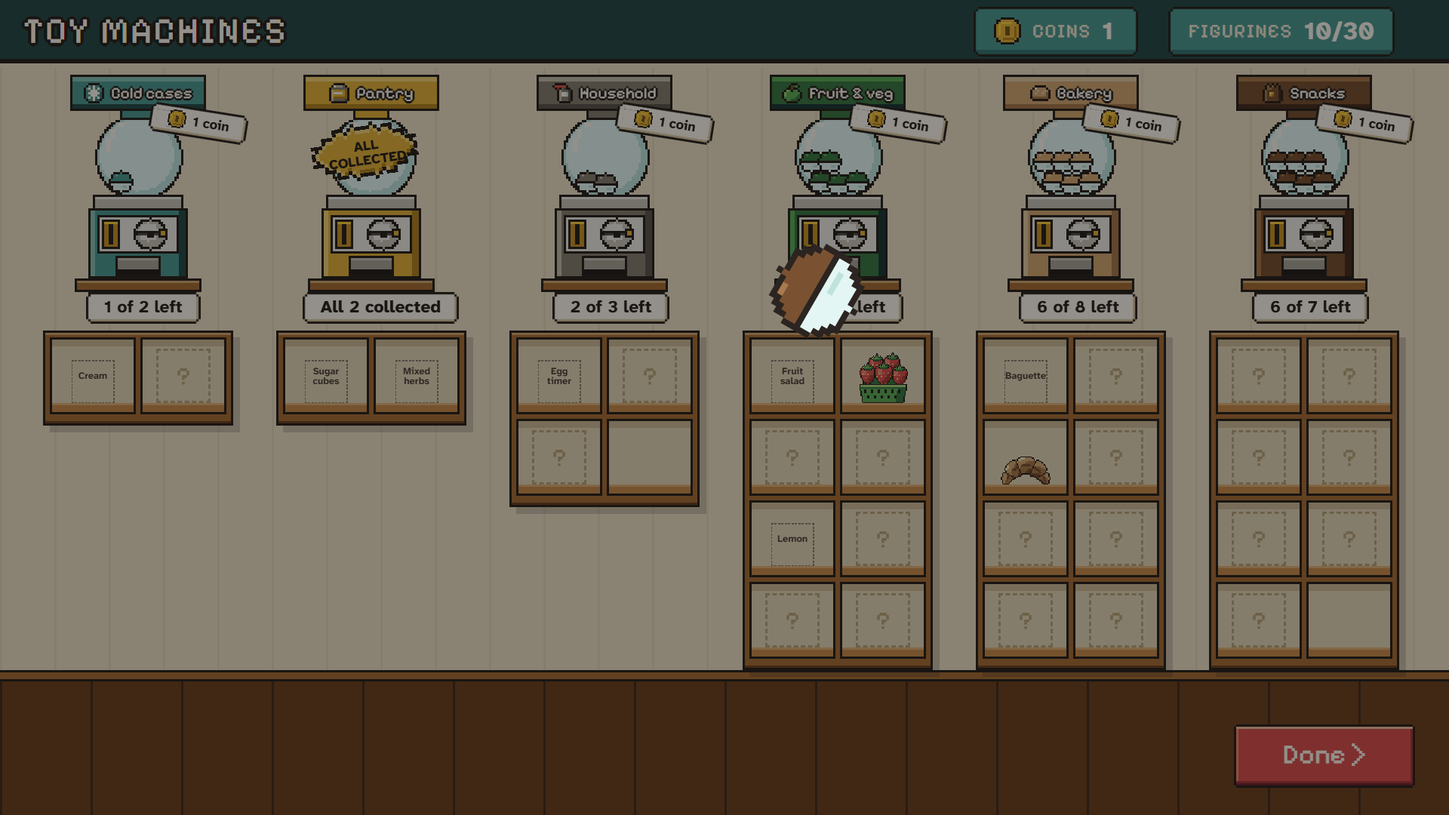
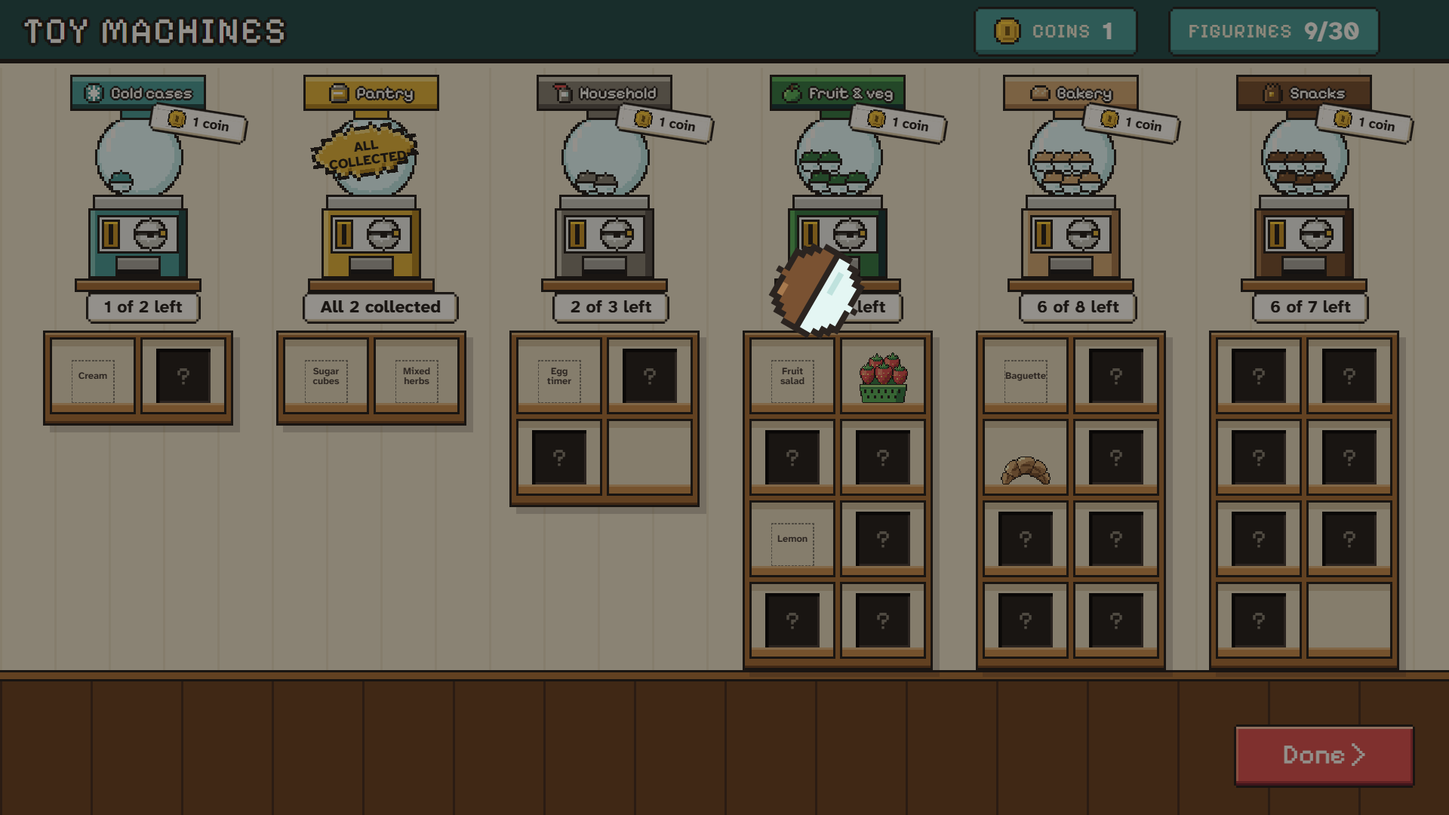
Fix the #63 capsule machine decide prep after review
Split Q1 into staging and machine body, offer a real choice for a
title draw while a run is saved, recommend surprise_list until #65,
make the seed come from outside core/ (saved as a decimal string),
state the telemetry run_id, the pixel_art.py derive cost and why only
coins show "?". True 0-coins copy, one can't-save string, dark locked
slots, FIGURINES counts at the pop, B's dial still at t=0.6, stills
retaken.

diff --git a/docs/art/mockups/capsule_63_index.html b/docs/art/mockups/capsule_63_index.html
@@ -11,7 +11,7 @@
 * { box-sizing: border-box; margin: 0; padding: 0; }
 body { width: 1280px; min-height: 720px; background: var(--teal-black); color: var(--cream); font: 500 13px/1.35 Atkinson; }
 a { color: var(--gold); }
-.wrap { padding: 14px 18px; display: grid; grid-template-columns: 430px 1fr; gap: 18px; }
+.wrap { padding: 12px 18px; display: grid; grid-template-columns: 450px 1fr; gap: 18px; }
 h1 { font: 400 30px Pixelify; color: var(--paper); letter-spacing: 1px; }
 h1 small { font: 600 13px Atkinson; color: var(--muted); letter-spacing: 0; margin-left: 8px; }
 h2 { font: 400 17px Pixelify; color: var(--mustard); margin: 10px 0 4px; letter-spacing: 1px; }
@@ -36,20 +36,20 @@ li { margin: 2px 0; }
 <body>
 <div class="wrap">
   <div>
-    <h1>Toy machines <small>#63 decide prep · 2026-10-21 · nothing decided</small></h1>
-    <p>Six coin-op machines, one per aisle, 1 coin a capsule, key item first, no duplicates. The pages are live: click a machine. Defaults and reasons are in <a href="capsule_63_src/DECIDE_63.md">DECIDE_63.md</a>, the inputs in <a href="capsule_63_src/BRIEF.md">BRIEF.md</a>.</p>
+    <h1>Toy machines <small>#63 prep · nothing decided</small></h1>
+    <p>One machine per aisle, 1 coin a capsule, key item first. Live pages: click a machine. Reasons in <a href="capsule_63_src/DECIDE_63.md">DECIDE_63.md</a>, inputs in <a href="capsule_63_src/BRIEF.md">BRIEF.md</a>.</p>
     <h2>The 4 questions</h2>
-    <div class="q"><b>Q1 Look:</b> A exit vestibule · B machine bank pop-in · C collector wall. <span class="rec">Rec: C</span> (the case under each machine is its shelf and its "left" count; the figurine lands in its cubby). A is the fallback.</div>
-    <div class="q"><b>Q2 Where:</b> results only, or results + title? Keep coins? <span class="rec">Rec: both, coins can be kept</span>; a title draw takes run index run_count − 1, like a results draw.</div>
+    <div class="q"><b>Q1 Look, two parts:</b> staging (A exit cut · B pop-in · C wall + cases) and body (globe, shared by A and C · window, B); bodies swap between stagings. <span class="rec">Rec: C's wall + globe</span>; A's staging is the fallback.</div>
+    <div class="q"><b>Q2 Where:</b> results only, or results + title? Keep coins? <span class="rec">Rec: both, coins kept</span>; a title draw while a run is saved takes run index run_count ("In stock after your saved run").</div>
     <div class="q"><b>Q3 Shelf:</b> locked as spaces or hidden; capsule items or base products too; names; order. <span class="rec">Rec: "?" spaces, the 30 capsule items, names on hover, data order.</span></div>
-    <div class="q"><b>Q4 Wording:</b> "Toy machines" or "Capsule machines"; "3 of 8 left"; "In stock from your next run". <span class="rec">Rec: TOY MACHINES + those lines</span>, never "gacha".</div>
+    <div class="q"><b>Q4 Wording:</b> "Toy" or "Capsule machines"; "3 of 8 left"; "In stock from your next run". <span class="rec">Rec: TOY MACHINES + those lines</span>.</div>
     <h2>Stated defaults</h2>
     <ul>
-      <li>RNG: seed + draw count in ProfileState (FORMAT_VERSION 2), a derived stream per draw.</li>
-      <li>Full collection: ALL COLLECTED rosettes, COLLECTION COMPLETE, coins keep adding up.</li>
-      <li>Can't save: OUT OF ORDER on each machine, "Coins ?", notice; a failed save rolls the draw back.</li>
-      <li>Until #65: start_new_run uses the pre-fill; surprise_list built and tested.</li>
-      <li>Log a <code>capsule</code> event · debug Profile tools (coins, real draw, unlock all, reset).</li>
+      <li>RNG: seed (made outside core/, a decimal string) + draw count in ProfileState v2.</li>
+      <li>Full: ALL COLLECTED, COLLECTION COMPLETE, coins add up.</li>
+      <li>Can't save: OUT OF ORDER, "Coins ?"; a failed save rolls back the draw.</li>
+      <li>Until #65: surprise_list (the pre-fill would lock the first list in).</li>
+      <li><code>capsule</code> event · debug Profile tools.</li>
     </ul>
   </div>
   <div>
@@ -59,7 +59,7 @@ li { margin: 2px 0; }
         <div class="links"><a href="capsule_63_a.html">live</a> · <a href="capsule_63_a_draw_at0.75.png">crank</a> · <a href="capsule_63_a_draw_at1.6.png">hop</a> · <a href="capsule_63_a_draw_at2.15.png">pop</a> · <a href="capsule_63_a_draw_at3.png">reveal</a> · <a href="capsule_63_a_draw_rm.png">reduced</a> · <a href="capsule_63_a_full_1920x1080.png">full</a> · <a href="capsule_63_a_nosave_1920x1080.png">can't save</a> · <a href="capsule_63_a_nocoins_1920x1080.png">0 coins</a> · <a href="capsule_63_a_capsule_wording_1920x1080.png">capsule wording</a></div></div>
       <div class="card"><a href="capsule_63_b.html"><img src="capsule_63_b_choose_1920x1080.png" alt=""></a>
         <h3>B · machine bank</h3><p>Pop-in steel cabinet over the results; boxy window machines; cheapest.</p>
-        <div class="links"><a href="capsule_63_b.html">live</a> · <a href="capsule_63_b_draw_at0.75.png">dial</a> · <a href="capsule_63_b_draw_at1.6.png">hop</a> · <a href="capsule_63_b_draw_at3.png">reveal (art pending)</a> · <a href="capsule_63_b_draw_rm.png">reduced</a> · <a href="capsule_63_b_full_1920x1080.png">full</a> · <a href="capsule_63_b_nosave_1920x1080.png">can't save</a> · <a href="capsule_63_b_nocoins_1920x1080.png">0 coins</a></div></div>
+        <div class="links"><a href="capsule_63_b.html">live</a> · <a href="capsule_63_b_draw_at0.6.png">dial</a> · <a href="capsule_63_b_draw_at1.6.png">hop</a> · <a href="capsule_63_b_draw_at3.png">reveal (art pending)</a> · <a href="capsule_63_b_draw_rm.png">reduced</a> · <a href="capsule_63_b_full_1920x1080.png">full</a> · <a href="capsule_63_b_nosave_1920x1080.png">can't save</a> · <a href="capsule_63_b_nocoins_1920x1080.png">0 coins</a></div></div>
       <div class="card"><a href="capsule_63_c.html"><img src="capsule_63_c_choose_1920x1080.png" alt=""></a>
         <h3>C · collector wall <span class="rec">REC</span></h3><p>Wall machines over wooden cases; the figurine flies into its cubby.</p>
         <div class="links"><a href="capsule_63_c.html">live</a> · <a href="capsule_63_c_draw_at0.75.png">crank</a> · <a href="capsule_63_c_draw_at3.png">reveal</a> · <a href="capsule_63_c_land_mid.png">landing</a> · <a href="capsule_63_c_land_done.png">landed</a> · <a href="capsule_63_c_draw_rm.png">reduced</a> · <a href="capsule_63_c_full_1920x1080.png">full</a> · <a href="capsule_63_c_nosave_1920x1080.png">can't save</a> · <a href="capsule_63_c_nocoins_1920x1080.png">0 coins</a> · <a href="capsule_63_c_hidden_1920x1080.png">locked hidden</a></div></div>
@@ -70,7 +70,7 @@ li { margin: 2px 0; }
       <div class="card"><a href="capsule_63_shelf.html?state=full"><img src="capsule_63_shelf_full_1920x1080.png" alt=""></a><h3>Shelf · full 30</h3><div class="links"><a href="capsule_63_shelf_full_labels_1920x1080.png">with names printed</a></div></div>
       <div class="card"><a href="capsule_63_shelf.html?state=fresh"><img src="capsule_63_shelf_fresh_1920x1080.png" alt=""></a><h3>Shelf · new profile</h3><div class="links">0 of 30</div></div>
     </div>
-    <p class="foot">Stills: 1280x720 at 1.5x, rebuilt by capsule_63_src/capture_all.sh. Only Strawberries, Croissant and Crisps have sprites. The other 27 capsule items show the art-pending box until #57/#58. Look B's backdrop is the shift-5 scene standing in for the results.</p>
+    <p class="foot">Stills: 1280x720 at 1.5x, rebuilt by capsule_63_src/capture_all.sh. Only Strawberries, Croissant and Crisps have sprites. The other 27 capsule items show the art-pending box until #57/#58, so the shelf stills can't fully settle Q3 (locked slots are dark recesses, collected ones the art box). Look B's backdrop is the shift-5 scene standing in for the results.</p>
   </div>
 </div>
 </body>

diff --git a/docs/art/mockups/capsule_63_c.html b/docs/art/mockups/capsule_63_c.html
@@ -22,7 +22,7 @@
 .topbar { position: absolute; left: 0; top: 0; width: 1280px; height: 56px; background: var(--teal-panel); border-bottom: 4px solid var(--ink); }
 .ttl { position: absolute; left: 20px; top: 8px; font: 400 32px Pixelify; color: var(--paper); letter-spacing: 2px; }
 .cubby { position: absolute; width: 48px; height: 48px; }
-.cubby .q { width: 48px; height: 48px; border: 2px dashed #b9a47c; display: flex; align-items: center; justify-content: center; font: 400 22px Pixelify; color: #b9a47c; }
+.cubby .q { width: 48px; height: 48px; background: #2b2420; box-shadow: inset 3px 3px 0 #120e0c, inset -2px -2px 0 #4a3f38; display: flex; align-items: center; justify-content: center; font: 400 22px Pixelify; color: #8a8172; }
 .cubby img { width: 48px; height: 48px; display: block; }
 .spark { position: absolute; width: 10px; height: 10px; background: url(capsule_63_src/assets/sparkle.png) center / 100% 100%; image-rendering: pixelated; }
 .landfig { position: absolute; width: 96px; height: 96px; transform-origin: 0 0; }
@@ -120,7 +120,7 @@ const look = {
   coinEl: () => coinChipEl,
   update(v) {
     const S = v.S;
-    let owned = 0; for (const a of AISLES) owned += a.items.length - v.left[a.id];
+    const owned = v.owned;
     figChip.innerHTML = `<span class="lab">FIGURINES</span><span>${owned}/${TOTAL}</span>`;
     const allDone = AISLES.every(a => v.left[a.id] === 0);
     for (const o of COL) {
@@ -156,11 +156,11 @@ const look = {
     }
     notice.style.display = 'none'; hint.style.display = 'none';
     if (S.nosave) {
-      notice.style.display = 'flex'; notice.innerHTML = `<img src="capsule_63_src/assets/warning.png">Your collection can't be saved right now, so the machines are switched off.`;
+      notice.style.display = 'flex'; notice.innerHTML = `<img src="capsule_63_src/assets/warning.png">Your collection can't be saved right now, so the ${WORDS.one}s are switched off.`;
     } else if (allDone) {
       hint.style.display = 'block'; hint.style.color = '#faecbc'; hint.innerHTML = '<b>COLLECTION COMPLETE</b> · every figurine is on the wall. Your coins keep adding up.';
     } else if (S.coins <= 0 && v.drawing === null) {
-      notice.style.display = 'flex'; notice.innerHTML = `<img src="capsule_63_src/assets/warning.png">No coins left. Every run's final receipt pays some.`;
+      notice.style.display = 'flex'; notice.innerHTML = `<img src="capsule_63_src/assets/warning.png">No coins left. Runs that pass shift 4 pay coins on the final receipt.`;
     } else if (v.drawing === null) { hint.style.display = 'block'; hint.style.color = '#faecbc'; hint.textContent = 'Pick a machine: 1 coin a capsule. Hover a figurine for its name.'; }
     for (const e of [hint, notice]) e.style.left = 560 - e.offsetWidth / 2 + 'px';
   },

diff --git a/docs/art/mockups/capsule_63_b.html b/docs/art/mockups/capsule_63_b.html
@@ -109,7 +109,7 @@ const look = {
   coinEl: () => coinChipEl,
   update(v) {
     const S = v.S;
-    let owned = 0; for (const a of AISLES) owned += a.items.length - v.left[a.id];
+    const owned = v.owned;
     figChip.innerHTML = `<span class="lab">FIGURINES</span><span>${owned}/${TOTAL}</span>`;
     const allDone = AISLES.every(a => v.left[a.id] === 0);
     for (const o of M) {
@@ -135,11 +135,11 @@ const look = {
     stamp.style.display = allDone ? 'block' : 'none';
     notice.style.display = 'none'; sub.textContent = '';
     if (S.nosave) {
-      notice.style.display = 'flex'; notice.innerHTML = `<img src="capsule_63_src/assets/warning.png">Your collection can't be saved right now, so the machines are switched off.`;
+      notice.style.display = 'flex'; notice.innerHTML = `<img src="capsule_63_src/assets/warning.png">Your collection can't be saved right now, so the ${WORDS.one}s are switched off.`;
     } else if (allDone) {
       sub.textContent = 'Every figurine is on your shelf. Your coins keep adding up.';
     } else if (S.coins <= 0 && v.drawing === null) {
-      notice.style.display = 'flex'; notice.innerHTML = `<img src="capsule_63_src/assets/warning.png">No coins left. Every run's final receipt pays some.`;
+      notice.style.display = 'flex'; notice.innerHTML = `<img src="capsule_63_src/assets/warning.png">No coins left. Runs that pass shift 4 pay coins on the final receipt.`;
     } else sub.textContent = 'Pick a machine: 1 coin a capsule.';
   },
 };

diff --git a/docs/art/mockups/capsule_63_a.html b/docs/art/mockups/capsule_63_a.html
@@ -131,7 +131,7 @@ const look = {
   coinEl: () => coinChipEl,
   update(v) {
     const S = v.S;
-    let owned = 0; for (const a of AISLES) owned += a.items.length - v.left[a.id];
+    const owned = v.owned;
     figChip.innerHTML = `<span class="lab">FIGURINES</span><span>${owned} / ${TOTAL}</span>`;
     const allDone = AISLES.every(a => v.left[a.id] === 0);
     for (const o of M) {
@@ -161,7 +161,7 @@ const look = {
       banner.innerHTML = 'COLLECTION COMPLETE · every figurine is on your shelf'; banner.style.color = '#7a5a1c';
       hint.style.display = 'block'; hint.style.color = '#4a3f38'; hint.textContent = 'Your coins keep adding up on the final receipt.';
     } else if (S.coins <= 0 && v.drawing === null) {
-      notice.style.display = 'flex'; notice.innerHTML = `<img src="capsule_63_src/assets/warning.png">No coins left. Every run's final receipt pays some.`;
+      notice.style.display = 'flex'; notice.innerHTML = `<img src="capsule_63_src/assets/warning.png">No coins left. Runs that pass shift 4 pay coins on the final receipt.`;
     } else if (v.drawing === null) { hint.style.display = 'block'; hint.style.color = '#4a3f38'; hint.textContent = 'Pick a machine: 1 coin a capsule.'; }
     for (const e of [hint, notice]) e.style.left = 640 - e.offsetWidth / 2 + 'px';
     notice.style.top = '588px';

diff --git a/docs/art/mockups/capsule_63_shelf.html b/docs/art/mockups/capsule_63_shelf.html
@@ -23,7 +23,7 @@
   border: 6px solid transparent; border-image: url(capsule_63_src/assets/sign.png) 6 fill / 6px stretch; font: 400 30px Pixelify; color: var(--paper); letter-spacing: 2px; }
 .slot { position: absolute; width: 48px; height: 48px; }
 .slot img { width: 48px; height: 48px; display: block; }
-.slot .q { width: 48px; height: 48px; border: 2px dashed #b9a47c; display: flex; align-items: center; justify-content: center; font: 400 22px Pixelify; color: #b9a47c; }
+.slot .q { width: 48px; height: 48px; background: #2b2420; box-shadow: inset 3px 3px 0 #120e0c, inset -2px -2px 0 #4a3f38; display: flex; align-items: center; justify-content: center; font: 400 22px Pixelify; color: #8a8172; }
 .slot.on:hover { transform: translateY(-4px); }
 .nm { position: absolute; width: 66px; text-align: center; font: 700 11px/1.1 Atkinson; color: var(--ink-light); }
 .cnt { position: absolute; font: 750 16px Atkinson; color: var(--ink-light); }

diff --git a/docs/art/mockups/capsule_63_src/capsule.js b/docs/art/mockups/capsule_63_src/capsule.js
@@ -229,12 +229,14 @@ const CAP = (() => {
     function view() {
       const v = { S, coins: S.coins, left: {}, crank: {}, jig: {}, flap: {}, drawing: D ? D.i : null, item: D ? D.item : null, rm: P.rm };
       for (const a of AISLES) v.left[a.id] = a.items.length - S.drawn[a.id].length;
+      v.owned = AISLES.reduce((n, a) => n + S.drawn[a.id].length, 0);
       if (!D) return v;
       const a = AISLES[D.i];
       const t = tNow();
       if (!P.rm) {
         if (t < T.coin[1]) v.coins += 1;
         if (t < T.drop[0]) v.left[a.id] += 1;
+        if (t < T.pop[0]) v.owned -= 1; // FIGURINES n / 30 counts at the pop (a #64 beat)
         const kc = seg(t, T.crank);
         v.crank[D.i] = kc > 0 && kc < 1 ? Math.floor(kc * 8) % 4 : 0;
         v.jig[D.i] = kc > 0 && kc < 1 ? (Math.floor(kc * 12) % 2 ? 1 : 0) : 0;

diff --git a/docs/art/mockups/capsule_63_src/DECIDE_63.md b/docs/art/mockups/capsule_63_src/DECIDE_63.md
@@ -7,7 +7,14 @@ states). The shared brief is `capsule_63_src/BRIEF.md`.
 Four real questions (Q1 to Q4), each with a recommendation. Everything after them is a stated default from the issue's
 "decide with the user" list: say so if you want one changed.
 
-## Q1. The machines' look
+## Q1. The machines' look: staging and machine body
+
+Q1 is really two choices. The three pages differ mostly in **staging** (where the machines stand and where the shelf
+is). There are only two **machine bodies**: the round **globe** (A and C draw the same globe machine, C's at about 0.7x:
+60x100 art px against A's 72x140) and the boxy **window** machine (B). B shares the globe's coin slot and dial block.
+Any body can stand in any staging, so you can pick, for example, C's wall and cases with B's window machines.
+
+**Staging:**
 
 | Option | Page | What it is |
 |---|---|---|
@@ -15,7 +22,11 @@ Four real questions (Q1 to Q4), each with a recommendation. Everything after the
 | **B: machine bank pop-in** | `capsule_63_b.html` | No camera cut: a steel vending cabinet pops in over the shaded results, the size of the other centred panels. Six boxy window machines on a shelf whose price rail carries "3 of 8 left". Separate shelf screen. The cheapest: one machine sprite and one frame. |
 | **C: collector wall** | `capsule_63_c.html` | Machines and shelf are one wall at the exit. Each aisle is a column: a small wall-hung globe machine, its label, and under it a wooden case with one cubby per item, a "?" in each locked one. After OK the figurine flies into its cubby. No separate shelf screen. |
 
-**Recommendation: C.** Reasons:
+**Machine body:** the **globe** (A, C) or the **window** (B). The static art is one body either way (for C's wall
+`scenery/wall_machine`, for A or B a floor machine), so the art list below holds for whichever body you pick; only its
+size changes with the staging.
+
+**Recommendation: C's staging with the globe body.** Reasons:
 
 - One place per fact (your note on the shift screen): the case under each machine *is* that machine's "what's left",
   so the shelf, the catalogue and the items-left count are the same object, and every new figurine visibly lands in
@@ -24,12 +35,14 @@ Four real questions (Q1 to Q4), each with a recommendation. Everything after the
   1280x720 (the tallest case ends at y 592).
 - It is a physical store fixture (wall, brackets, wooden cases), which you have preferred over flat panels, and it
   looks nothing like #77's restock hatch.
+- The globe is the classic toy-machine silhouette and reads as "capsules inside" at a glance; the window body reads
+  more like a vending machine. This reason holds for A's staging too, since A and C share the globe.
 
 Costs and risks: the machines are smaller (120x200 against A's 144x280), so #64's crank and coin read smaller (the
 capsule still hops to the centre for the reveal); the base aisles' cases are short (2, 2 and 3 items), which leaves
 wall space on the left, and the Household case has one blank cubby; the fly-to-cubby adds 0.5 s after OK (#64,
-skippable; reduced motion lands at once). If C feels too busy, **A** is the fallback: the most iconic machines, at the
-price of a camera cut and a second screen for the shelf. B is the cut-list look.
+skippable; reduced motion lands at once). If C feels too busy, **A's staging** is the fallback: the same globe body
+drawn bigger, at the price of a camera cut and a second screen for the shelf. B's staging is the cut-list look.
 
 ## Q2. Where the machines are reached, keeping coins, and a title-screen draw's run index
 
@@ -41,9 +54,18 @@ price of a camera cut and a second screen for the shelf. B is the cut-list look.
   Done brings you back to the title.
 - **Coins can be kept.** Spending is never required, and nothing nags. Saving coins for a machine you want is a fine
   choice, since the player picks the machine and never the item.
-- **A title-screen draw's run index is `run_count - 1`,** the same as right after the last run (the issue's rule).
-  The item is in the next run's stock whether or not a run is in progress. With a saved run in progress, its stock is
-  already fixed, so the new arrival rides 2 runs instead of 3. That is simpler than a second rule.
+- **A title-screen draw's run index** (a sub-choice). The issue's rule, `run_count - 1`, is for a draw right after
+  a run, and it is also right for a title draw when no run is saved: the next run started has index `run_count`, so
+  the item rides runs `run_count` to `run_count + 2` (section 7.2). But with a saved run in progress, the run you
+  Continue *is* the next run, and its stock was fixed when it started. So `run_count - 1` would give the item only 2
+  of its 3 runs, and the reveal's "In stock from your next run" would be false (and so would section 7.2's "a capsule
+  is always playable in the next run"). The options for that case:
+  - **(a) Recommended:** a title draw while a run is saved gets run index `run_count` (the saved run's own index), so
+    the item rides the 3 runs after the saved one. The reveal line then says "**In stock after your saved run**".
+  - (b) The title machines are switched off while a run is saved (a "Finish your run first" label on the machine
+    prop; the shelf stays open).
+  - (c) Keep `run_count - 1` (the item rides 2 runs) and change the reveal line in that case, for example "In stock
+    after this run".
 
 The alternative is results only, which is simpler but means a player who quit before spending has to finish another
 run to reach the machines.
@@ -63,6 +85,11 @@ order** (the key item first, so each figurine has a fixed spot).
   (`capsule_63_shelf.html?labels=1` shows them). Until #57 and #58 draw the sprites, the art-pending boxes print
   their names anyway.
 - Data order is needed for fixed spots. Draw order would reshuffle as you collect.
+- **What the stills can't settle:** 27 of the 30 collected figurines are still art-pending boxes (#57, #58). The
+  locked spaces are now dark recessed slots with a "?" and no dashed border, so they read differently from a
+  collected art-pending box, but how the full shelf feels depends on sprites that don't exist yet. In C, the
+  `locked=hidden` view also makes locked cubbies look exactly like the spare blank cubbies (Household, Snacks), which
+  is one more reason for spaces there.
 
 ## Q4. Wording
 
@@ -84,8 +111,14 @@ tab already calls the run's pool STOCK.
   `FORMAT_VERSION` to 2.
   - Each draw uses `EventLog.derived_stream(capsule_seed, "capsule_%d" % capsule_draws)` and passes it into
     `core/capsule_draw.gd` (no global random).
-  - A v1 profile gets its seed when it is loaded. The seed is made outside `core/` by `SaveService` and logged; the
-    count starts at the number of unlocked items.
+  - The seed is made outside `core/`: the screen that loads the profile (title or results) calls
+    `EventLog.new_run_seed()` when the profile has no seed yet (a v1 profile, or a new one), passes it into
+    `ProfileState` and logs it. `core/` (and so `SaveService`, which lives in `core/`) never makes a seed. The count
+    starts at the number of unlocked items.
+  - `capsule_seed` is saved as a decimal string, like `RunSave`'s `run_seed` (JSON numbers are doubles, and
+    `ProfileState._read_int` rejects negative values); `capsule_draws` is a plain non-negative int.
+  - A v2 profile opened by an older build fails the version check, so that build backs it up as `.bad` and replaces it
+    with a fresh profile (`SaveService`'s usual treatment of a newer format), as with any format bump.
   - Why: the run save is gone by the time you draw, and a title-screen draw has no run seed. The derived stream from
     the ended run's seed would still need the seed kept in the profile. A fresh unseeded RNG can't be replayed in tests
     or from a log.
@@ -97,19 +130,34 @@ tab already calls the run's pool STOCK.
   - The panel shows COLLECTION COMPLETE and "Your coins keep adding up".
   - Coins keep printing on the final receipt and the title. Nothing else spends them (no shop, no second use).
   - The entry button stays, so the shelf can still be visited.
+- **At 0 coins:** the machines dim and the tomato notice reads "No coins left. Runs that pass shift 4 pay coins on the
+  final receipt." (section 7.1's table pays no coins for a run lost on shifts 1 to 4, and the overtime coin comes in
+  about 1 run in 10).
 - **When the profile can't be saved:**
   - Every machine wears an OUT OF ORDER paper and can't be picked. The coins chip shows "?", and the tomato notice
-    (with the warning triangle) explains why. The shelf still shows whatever the profile could read.
+    (with the warning triangle) reads "Your collection can't be saved right now, so the toy machines are switched
+    off." (one string on every page). The shelf still shows whatever the profile could read.
+  - Only coins show "?": that follows section 7.1's "you have ?" for a coin total that wasn't saved (the run's coins
+    were added in memory but never written). The collection and the "n of m left" counts haven't changed since the
+    profile was read, so they are shown as read.
   - A save that fails *at* a draw: the code saves before it reveals. If `SaveService.save_profile` fails, the draw is
     rolled back in memory (the coin and the item come back), the failure goes through the injected reporter, and the
     machines switch off with the same notice. So nothing is shown that wasn't saved.
-- **The list `start_new_run` uses until #65:** the **pre-fill** (section 7.2: the last list, otherwise the newly
-  listable aisle, otherwise the two base aisles with the most unlocked items, ties by data order). It writes
-  `last_list`. It is what #65's note will show by default, so nothing changes for players when the note lands.
-  `RunStock.surprise_list` (the seeded pair on a derived stream next to `IMPULSE_RACK_STREAM`) is built and tested now,
-  and it stays the cut-list fallback.
+- **The list `start_new_run` uses until #65:** **`RunStock.surprise_list`** (the seeded pair on a derived stream next to
+  `IMPULSE_RACK_STREAM`), the plan's cut-list fallback, which has to exist anyway. It is built and tested now and
+  writes nothing to `last_list`.
+  - Why not the pre-fill (section 7.2: the last list, otherwise the newly listable aisle, otherwise the two base aisles
+    with the most unlocked items)? Without #65's note the player can't see or change it, so the first list is written
+    to `last_list` and **locks in**: it repeats every run, one base aisle disappears for good, and a machine-opened
+    aisle that later becomes listable (Fruit & veg and the others) is never listed. A list is needed after as few as 3
+    base-machine draws, and #65 is cuttable, so the lock-in could ship.
+  - #65 then switches `start_new_run` to the note's list, pre-filled as section 7.2 says. If you'd rather keep the
+    pre-fill until #65 and accept the lock-in, say so.
 - **Telemetry:** log a `capsule` event with `machine` (aisle id), `item`, `run_index`, `coins_left` and `draw`. Add a
   `docs/PROTOTYPE_PLAN.md` section 8 row, and have the log summary count draws per machine.
+  - Draws can happen outside a run. A draw from the results carries the ended run's `run_id` (still `EventLog.run_id`);
+    a title draw carries an empty `run_id`. `run_index` identifies the run either way, and the log summary counts
+    draws per machine from both kinds.
 - **The debug tool:** a Profile section in the debug panel with three actions, all through `ProfileState` and
   `SaveService` (tests redirect the folder):
   - "Give coins" (+1 and +5).
@@ -125,10 +173,13 @@ tab already calls the run's pool STOCK.
   pops in (`UiKit.pop_in`); the coin, crank, capsule and pop beats in these pages preview #64.
 - **Hover and press:** an enabled machine lifts 4 px and brightens with the hand cursor. Disabled machines keep the
   arrow cursor, and each disabled state carries a label or a paper, never colour alone. The coins chip pops as it
-  drops by 1.
+  drops by 1. In the preview the counters change on their beats: coins as the coin goes in, "left" as the capsule
+  drops, FIGURINES n / 30 at the pop (a #64 beat; the plain #63 panel updates them all with the reveal).
 - **Static art for #63** (reviewed by you, logged in `production_log.tsv`). One machine body (look C:
-  `scenery/wall_machine`, 60x100 art px) is recoloured per aisle by a palette map from `sign_color`, the way GOLDEN's
-  `@derive` maps palettes. Also `frames/display_case` and its cubby, and `scenery/exit_wall`. #64 adds the coin,
+  `scenery/wall_machine`, 60x100 art px) is recoloured per aisle by a palette map from `sign_color`. That needs a new `@derive` mode in
+  `tools/pixel_art.py` (today it only takes `golden=<rank|yellow|egg>`), for example `@derive <source> aisle=<id>`
+  mapping the body's ramp to the aisle's sign ramp, with its tests in `pixel_art_test.py`: part of #63's art cost.
+  The alternative is 6 hand-made recolour sources. Also `frames/display_case` and its cubby, and `scenery/exit_wall`. #64 adds the coin,
   crank (4 frames), flap and capsule halves.
 - **Changelog:** none for this prep (docs only). The build adds rows to both plans, as the issue says.
 

diff --git a/docs/art/mockups/capsule_63_src/BRIEF.md b/docs/art/mockups/capsule_63_src/BRIEF.md
@@ -81,8 +81,9 @@ can't be saved, reduced motion, and a frozen draw at any time `t`.
   "All 8 collected".
 - Coins chip and a FIGURINES n / 30 chip.
 - States: empty machine (empty globe, gold ALL COLLECTED rosette, not clickable, no price); 0 coins (machines dimmed,
-  tomato notice "No coins left. Every run's final receipt pays some."); profile can't be saved (OUT OF ORDER paper taped
-  on each machine, "Coins ?", notice "Your collection can't be saved right now, so the toy machines are switched off.").
+  tomato notice "No coins left. Runs that pass shift 4 pay coins on the final receipt."); profile can't be saved (OUT OF ORDER paper taped
+  on each machine, "Coins ?", notice "Your collection can't be saved right now, so the toy machines are switched off.", the same string
+  on every page; only coins show "?", following section 7.1's "you have ?").
 - The draw: the coin and the item are spent and recorded at the click (before any animation). The preview: coin flies
   into the slot (0.42 s), crank turns (0.58 s), capsule drops into the chute, hops forward, shakes and pops (1.26 s), the
   figurine rises on a gold medallion (0.36 s). A tap during it jumps to the reveal.
